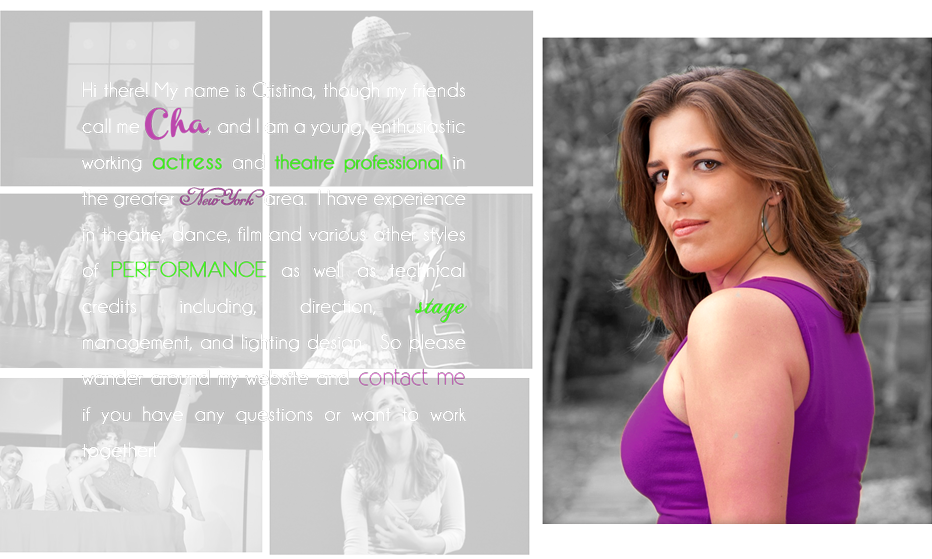
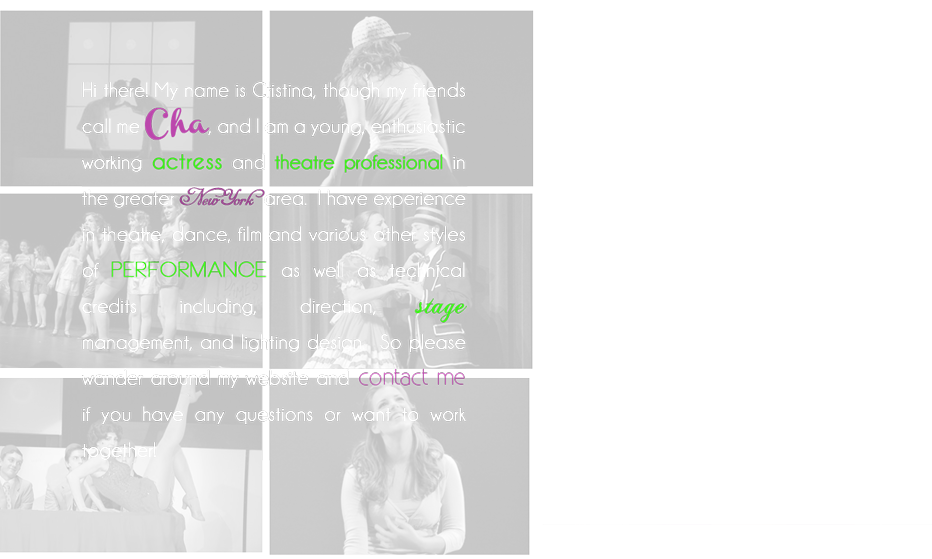
Cha requests: -Added ability to edit resume pdf -Youtube video links for dance pages -Featured image on blog post -Text box for Theatre, Dance, and Fil mages -Widget area for blog -Added ability to change homepage image

diff --git a/style.scss b/style.scss
@@ -158,17 +158,49 @@ Use it to make something cool, have fun, and share what you've learned with othe
   img:hover{ @include opacity (0.6);};
   b {font-family: 'Open Sans Condensed', sans-serif; margin-top:1em;}
 }
-.divider {margin: 3em 0em 2em 0em;}
+.divider {
+    margin: 3em 0em 2em 0em;
+    img {
+        display: block;
+        width:480px;
+        margin:0 auto;
+    }
+}
 
 .front {
-  background-color: black;
-  @include radius (1em);
+    background-color: black;
+    @include radius (1em);
+    position:relative;
+    top:0;
+    left:0;
+    .homepage-Cha { 
+        position: absolute;
+        z-index: 1000;
+        top: 37px;
+        right: 38px;
+    }
 }
 .media p {margin:15px 0px 15px 0px; font-size:15px}
-.resume h2 {margin-top:80px; font-size:40px; }
-.resume h3 {margin:50px 0px 20px 0px; font-size:25px; color:#2b700d;}
-.resume p, .resume h4 {font-family: 'Sanchez', serif;margin:25px 0px 0px 0px;}
-.resume h4 {color:#bb47ac;}
+
+.resume {
+    h2 {
+        margin-top:80px;
+        font-size:40px;
+    }
+    h3 {
+        margin:50px 0px 20px 0px;
+        font-size:25px;
+        color:#2b700d;
+    }
+    p, h4 {
+       font-family: 'Sanchez', serif;
+       margin:25px 0px 0px 0px; 
+    }
+    h4 {
+        color:#bb47ac;
+    }
+}
+
 .social img {padding-top: 14px;
 padding-bottom: 10px;transition: .6s;-moz-transition: .6s; /* Firefox 4 */-webkit-transition: .6s; /* Safari and Chrome */-o-transition: .6s; /* Opera */}
 .social img:hover {

diff --git a/style.css b/style.css
@@ -1559,12 +1559,24 @@ p {
 
 .divider {
   margin: 3em 0em 2em 0em; }
+  .divider img {
+    display: block;
+    width: 480px;
+    margin: 0 auto; }
 
 .front {
   background-color: black;
   -moz-border-radius: 1em;
   -webkit-border-radius: 1em;
-  border-radius: 1em; }
+  border-radius: 1em;
+  position: relative;
+  top: 0;
+  left: 0; }
+  .front .homepage-Cha {
+    position: absolute;
+    z-index: 1000;
+    top: 37px;
+    right: 38px; }
 
 .media p {
   margin: 15px 0px 15px 0px;
@@ -1573,16 +1585,13 @@ p {
 .resume h2 {
   margin-top: 80px;
   font-size: 40px; }
-
 .resume h3 {
   margin: 50px 0px 20px 0px;
   font-size: 25px;
   color: #2b700d; }
-
 .resume p, .resume h4 {
   font-family: 'Sanchez', serif;
   margin: 25px 0px 0px 0px; }
-
 .resume h4 {
   color: #bb47ac; }
 

diff --git a/functions.php b/functions.php
@@ -54,5 +54,64 @@ register_post_type('theatres', array(
 
 // Enable post thumbnails
 add_theme_support( 'post-thumbnails' ); 
+
+// Enable widget area for Blog Sidebar
+
+if (function_exists('register_sidebar')) {  
+     register_sidebar(array(  
+      'name' => 'Blog Sidebar',  
+      'id'   => 'blog-sidebar',  
+      'description'   => 'This widget area is on the right hand side of the Blog page',  
+      'before_widget' => '<div class="grid_2 suffix_1">',  
+      'after_widget'  => '</div>',  
+      'before_title'  => '<h5>',  
+      'after_title'   => '</h5>'  
+     ));  
+    }  
+
+
+// Enable widget area for Theatre page
+
+if (function_exists('register_sidebar')) {  
+ register_sidebar(array(  
+  'name' => 'Theatre Widget Area',  
+  'id'   => 'theatre-widget-area',  
+  'description'   => 'This widget area is right below the resume icons on the Theatre page',  
+  'before_widget' => '<div class="grid_12 divider"><img src="'. get_template_directory_uri(). '/images/gray-divider.png"></div><div class="grid_8 prefix_2 suffix_2">',  
+  'after_widget'  => '</div>',  
+  'before_title'  => '<h5>',  
+  'after_title'   => '</h5>'  
+ ));  
+} 
+
+// Enable widget area for Film page
+
+if (function_exists('register_sidebar')) {  
+ register_sidebar(array(  
+  'name' => 'Film Widget Area',  
+  'id'   => 'film-widget-area',  
+  'description'   => 'This widget area is right below the resume icons on the Film page',  
+  'before_widget' => '<div class="grid_12 divider"><img src="'. get_template_directory_uri(). '/images/gray-divider.png"></div><div class="grid_8 prefix_2 suffix_2">',  
+  'after_widget'  => '</div>',  
+  'before_title'  => '<h5>',  
+  'after_title'   => '</h5>'  
+ ));  
+} 
+
+// Enable widget area for Dance page
+
+if (function_exists('register_sidebar')) {  
+ register_sidebar(array(  
+  'name' => 'Dance Widget Area',  
+  'id'   => 'dance-widget-area',  
+  'description'   => 'This widget area is right below the title of the dance page',  
+  'before_widget' => '<div class="grid_12 divider"><img src="'. get_template_directory_uri(). '/images/gray-divider.png"></div><div class="grid_8 prefix_2 suffix_2">',  
+  'after_widget'  => '</div><div class="grid_12 divider"><img src="'. get_template_directory_uri(). '/images/gray-divider.png"></div>',  
+  'before_title'  => '<h5>',  
+  'after_title'   => '</h5>'  
+ ));  
+}  
+
+
 // credit_to youtube_link
 ?>

diff --git a/front-page.php b/front-page.php
@@ -3,9 +3,17 @@
 	<div class="grid_12 nav">
 		<?wp_nav_menu();?>
 	</div>
+
+	<!-- Start the WP loop -->
+	<?php 
+		if ( have_posts() ) {
+			while ( have_posts() ) {
+	?>
+
 	<div id="load" style="display:none;">
 		<div class="grid_12 front">
-	        <img <?php echo "src='" . get_template_directory_uri(). '/images/Front-Page.png' . "'" ?>>  
+	        <img <?php echo "src='" . get_template_directory_uri(). '/images/Front-Page.png' . "'" ?>>
+	        <?php the_post_thumbnail( array(391,487), array('class' => "homepage-Cha") ); ?>  
 	    </div>
 	    <div class="grid_12 social" align="center">
 	        <a href="http://www.linkedin.com/pub/cristina-m-ramos/54/644/106"><img <?php echo "src='" . get_template_directory_uri(). '/images/social/social-02.png' . "'" ?> height="50"></a>
@@ -19,9 +27,9 @@
 		<div><h6><a href="#" id="learn" style="color: rgb(151, 11, 151);">Read more about me here</a></h6></div>
 	<div id="bio">
 
-	<?php 
-		if ( have_posts() ) {
-			while ( have_posts() ) {
+
+	<!-- End WP loop -->
+	<?php
 				the_post(); 
 				the_content();
 			}

diff --git a/single-theatres.php b/single-theatres.php
@@ -19,13 +19,13 @@ Template Name: Portfolio (Theatre)
 					ob_start();
 					the_content();
 					$cha_content = ob_get_clean();
-				?>
+		?>	
 	</div>
 
 	<div id="tabs">
 	        <div class="grid_4 " align="center">
 	            <a 	<?php
-					$pdflink = get_the_excerpt();
+					$pdflink = get_field( 'pdf_link' );
 					echo 'href="' . $pdflink. '" ';
 				?> target="_blank"><img <?php echo "src='" . get_template_directory_uri(). '/images/doc.png' . "'" ?>><br>
 	            <b>Download Resume</b></a>
@@ -38,6 +38,7 @@ Template Name: Portfolio (Theatre)
 	            <a href="#photo"><img  <?php echo "src='" . get_template_directory_uri(). '/images/camera.png' . "'" ?>><br>
 	            <b>View Pictures</b></a> 
 	        </div>
+	        <?php if ( dynamic_sidebar('theatre-widget-area') ) : else : endif; ?>
 	        <div class="grid_12 divider" align="center">
 	            <img <?php echo "src='" . get_template_directory_uri(). '/images/gray-divider.png' . "'" ?>>
 	        </div> 

diff --git a/single-films.php b/single-films.php
@@ -21,8 +21,8 @@ Template Name: Portfolio (Films)
 	<div id="tabs">
 	        <div class="grid_4 prefix_2" align="center">
 	            <a 	<?php
-					$pdflink = get_the_content();
-					echo 'href="' . $pdflink. '"';
+		            $pdflink = get_field( 'pdf_link' );
+					echo 'href="' .$pdflink. '"';
 				?> target="_blank"><img <?php echo "src='" . get_template_directory_uri(). '/images/doc.png' . "'" ?>><br>
 	            <b>Download Resume</b></a>
 	        </div>
@@ -30,6 +30,7 @@ Template Name: Portfolio (Films)
 	            <a href="#video"><img <?php echo "src='" . get_template_directory_uri(). '/images/video.png' . "'" ?>><br>
 	            <b>Watch Videos</b></a>
 	        </div>
+	        <?php if ( dynamic_sidebar('film-widget-area') ) : else : endif; ?>
 	        <div class="grid_12 divider" align="center">
 	            <img <?php echo "src='" . get_template_directory_uri(). '/images/gray-divider.png' . "'" ?>>
 	        </div> 

diff --git a/home.php b/home.php
@@ -4,15 +4,21 @@
 	</div>
 </div>
 	<div class="grid_12">
-		<h1>Cha's Blog</h1>
+		<h1>Cristina's Blog</h1>
 	</div>
-<?php 
 
+
+
+
+	<div class="grid_8 prefix_1 blog">
+<?php 
+	
 	if ( have_posts()  ) {
 		while ( have_posts() ) { ?>
-		<div class="grid_8 prefix_2 suffix_2 blog">
+		
 		<?php		
 			the_post();
+			the_post_thumbnail( array(605,146));
 			?>
 
 			<a href="<?php the_permalink(); ?>" class="postlink" title="<?php the_title_attribute(); ?>"><?php the_title('<h2>','</h2>'); ?></a>
@@ -20,13 +26,17 @@
 			the_date('F j, Y','<p>Posted on: ','<p>');
 			the_content();
 		?>
-		</div>
-		<div class="grid_12 divider" align="center">
+		<div class="divider" align="center">
 	        <img <?php echo "src='" . get_template_directory_uri(). '/images/gray-divider.png' . "'" ?>>
 	    </div> 
 	<?php
 		}
 	}
 ?>
+	</div>
 
+	
+	<?php if ( dynamic_sidebar('blog-sidebar') ) : else : endif; ?>	
+	
+	
 <?php get_footer();?>

diff --git a/single-dances.php b/single-dances.php
@@ -21,16 +21,24 @@ Template Name: Portfolio (Dance)
 	<?php
 			}
 		}
+	if ( dynamic_sidebar('dance-widget-area') ) : else : endif; 
 	?>
+
 
 <div class="videobio" id="video">
 	<?php
+	// Loop for the custom post type for Dances
 	query_posts( 'post_type=dances' );
 		if ( have_posts()  ) {
 			while ( have_posts() ) {
 			the_post(); ?>
 	<div class="grid_5">
+		<a <?php
+			$youtube_link = get_field('youtube_link');
+			echo 'target="_blank" href="http://www.youtube.com/watch?v='.$youtube_link.'"' 
+		?> >
 		<?php the_post_thumbnail(array(370,277)); ?>
+		</a>
 	</div>
 				
 	<div class="grid_7">

diff --git a/contact-form.php b/contact-form.php
@@ -1,6 +1,6 @@
 <?php
 /* Set e-mail recipient */
-$myemail  = "danielprada2012@gmail.com";
+$myemail  = "cristinaramos.2012@gmail.com";
 
 /* Check all form inputs using check_input function */
 $yourname = check_input($_POST['Name']);

diff --git a/single.php b/single.php
@@ -13,6 +13,7 @@
 		<div class="grid_8 prefix_2 suffix_2 blog">
 		<?php		
 			the_post();
+			the_post_thumbnail( array(605,146));
 			?>
 
 			<?php the_title('<h2>','</h2>'); ?>

diff --git a/README.md b/README.md
@@ -2,10 +2,20 @@ cha
 ===
 
 Custom Wordpress Theme written with the following tools:
-* SASS (http://sass-lang.com/)
-* 960.css (http://960.gs/)
-* PrettyPhoto (http://www.no-margin-for-errors.com/projects/prettyphoto-jquery-lightbox-clone/)
+* [SASS](http://sass-lang.com/)
+* [960.css](http://960.gs/)
+* [PrettyPhoto](http://www.no-margin-for-errors.com/projects/prettyphoto-jquery-lightbox-clone/)
+* [Advanced Custom Fields](http://www.advancedcustomfields.com/) with particular thanks to [Team Treehouse](http://blog.teamtreehouse.com/adding-custom-fields-to-a-custom-post-type-the-right-way)
 
-This custom Wordpress theme has three custom post types and is mostly meant for the use case of this website, though as I work on it more and more I'll do what I can to make it more and more generalized and customizable.
+### Documentation
 
-The theme does take use of the Advanced Custom Fields post http://blog.teamtreehouse.com/adding-custom-fields-to-a-custom-post-type-the-right-way
+##### Homepage
+Featured image needs to be 391px by 487px in order to be displayed correctly.
+
+#### Theatre, Films, and Dance Pages
+* To change resume link, use 'pdf_link' as the custom field.  Be sure to use the full URL of the pdf file that you find after uploading it to the media folder.
+* To manipulate what is displayed underneath the title/resume icons, go to the Widget area and use a text widget with the appropriate widget area to update text in those particular locations.
+
+### Theatre, Films, and Dance Custom Post Types
+* For a youtube video link use the youtube_link as the custom field, using the unique youtube video id.
+* The featured images _must_ be 370px by 277px for it to display consistently.
